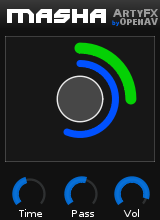
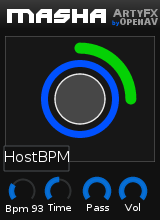
manual: updated Masha entry, new screenshot

Changed region(s): [[0.0, 0.6545, 0.9375, 1.0], [0.25, 0.2727, 0.6875, 0.6273], [0.75, 0.9273, 0.875, 1.0]]

diff --git a/manual.md b/manual.md
@@ -193,6 +193,14 @@ PassThru allows bleeding the normal signal trough.
 Time is a BPM dependant control that changes the loop-record and playback length.
 Gradually reduce this value to get that "standard" DJ stutter effect!
 
+This effect has some special functionality, to allow manual control over
+the BPM. Usually the BPM will be taken from the host program (or JACK
+transport), but it can now be controlled by a dial.
+
+Thl "HostBPM" button controls the BPM source. When the button is blue,
+the HostBPM is enabled. Turning off the button makes the manual BPM dial
+appear. The dial also shows the current BPM.
+
 
 Panda
 -----
